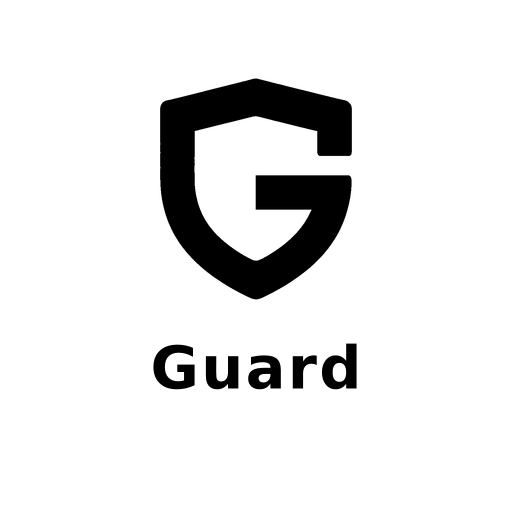
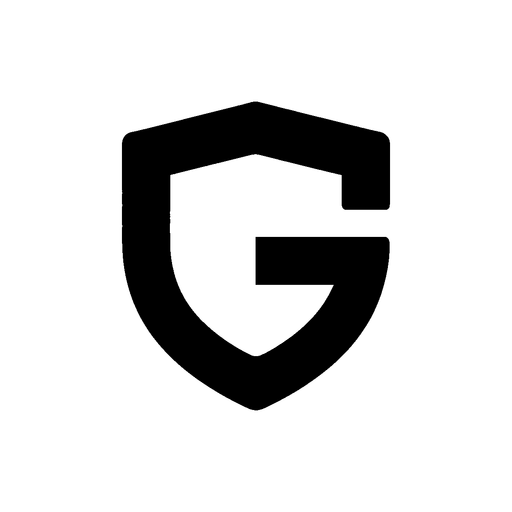
Leave the Guard launcher as a shield with no word
Guard stays a white tile with a black mark, matching Staff chrome,
but the artwork no longer paints Guard under the logo. Customer is
still unlabeled on black. Staff still says Staff.

Changed region(s): [[0.2188, 0.1562, 0.7812, 0.8125]]

diff --git a/docs/GOOGLE-PLAY.md b/docs/GOOGLE-PLAY.md
@@ -25,7 +25,7 @@ dist/play-store/Guardr-Staff.aab    (Staff — com.signaturesecurity.guardr.staf
 - **Play vs sideload flavors** — `play` build has no `REQUEST_INSTALL_PACKAGES` (Play policy safe); `sideload` keeps in-app APK updates for guardr.co/download
 - **Release signing** — reads `android/keystore.properties` (see `keystore.properties.example`)
 - **Play build flag** — `VITE_PLAY_STORE_BUILD=true` hides sideload update UI in Settings
-- **Store assets script** — unlabeled `icon-512.png`, Guard (white + black, labeled) / Customer (black, shield only) / Staff (white + black, labeled) `*-icon-512.png`, `feature-graphic-1024x500.png`
+- **Store assets script** — unlabeled `icon-512.png`, Guard (white + black, no word) / Customer (black, no word) / Staff (white + black, labeled) `*-icon-512.png`, `feature-graphic-1024x500.png`
 - **Listing copy draft** — `docs/play-store-listing-copy.md`
 
 Sideload APK builds are unchanged: `npm run android:apk` → `public/download/guardr.apk`.
@@ -112,7 +112,7 @@ Upload from `assets/play-store/`:
 
 | Asset | File |
 |-------|------|
-| Guard app icon (512×512) | `guard-icon-512.png` (white field, black logo) |
+| Guard app icon (512×512) | `guard-icon-512.png` (white field, black logo, no word) |
 | Customer app icon (512×512) | `client-icon-512.png` (black field, white logo, no word) |
 | Staff app icon (512×512) | `staff-icon-512.png` (white field, black logo) |
 | Brand / fallback icon | `icon-512.png` |
